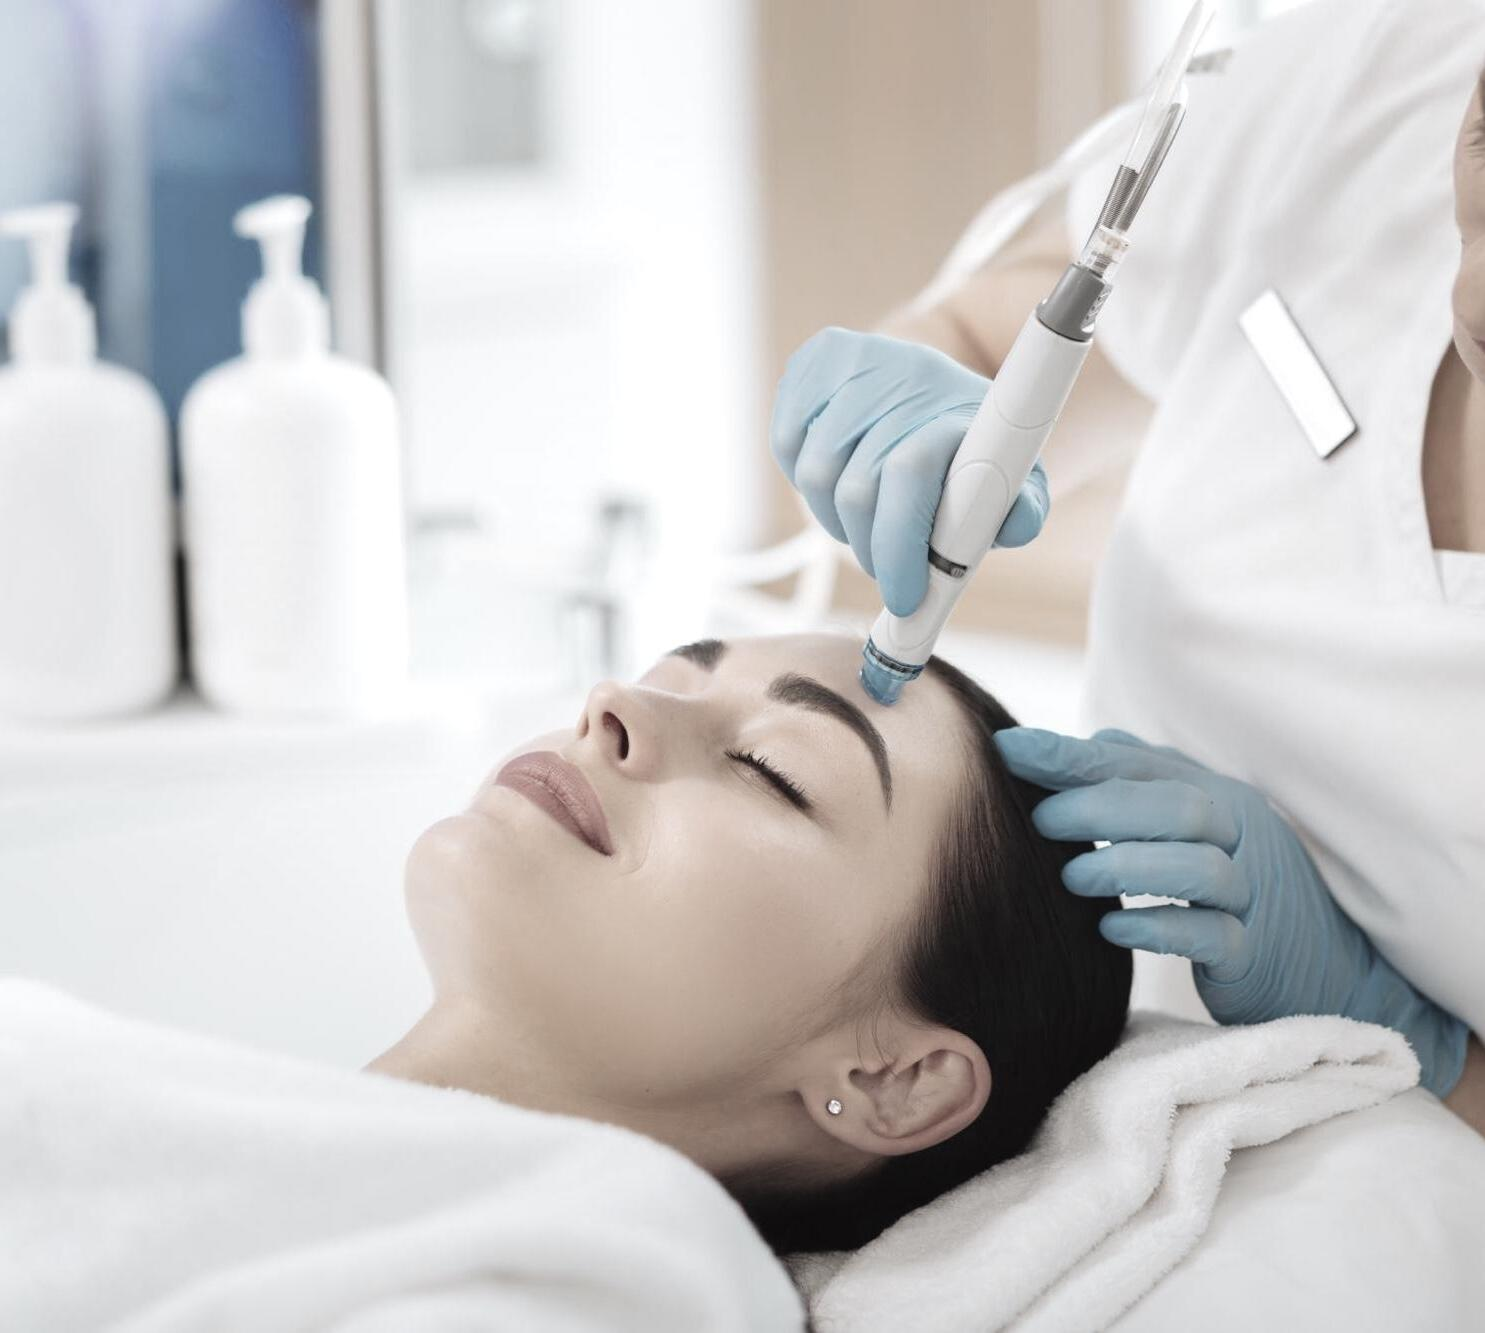
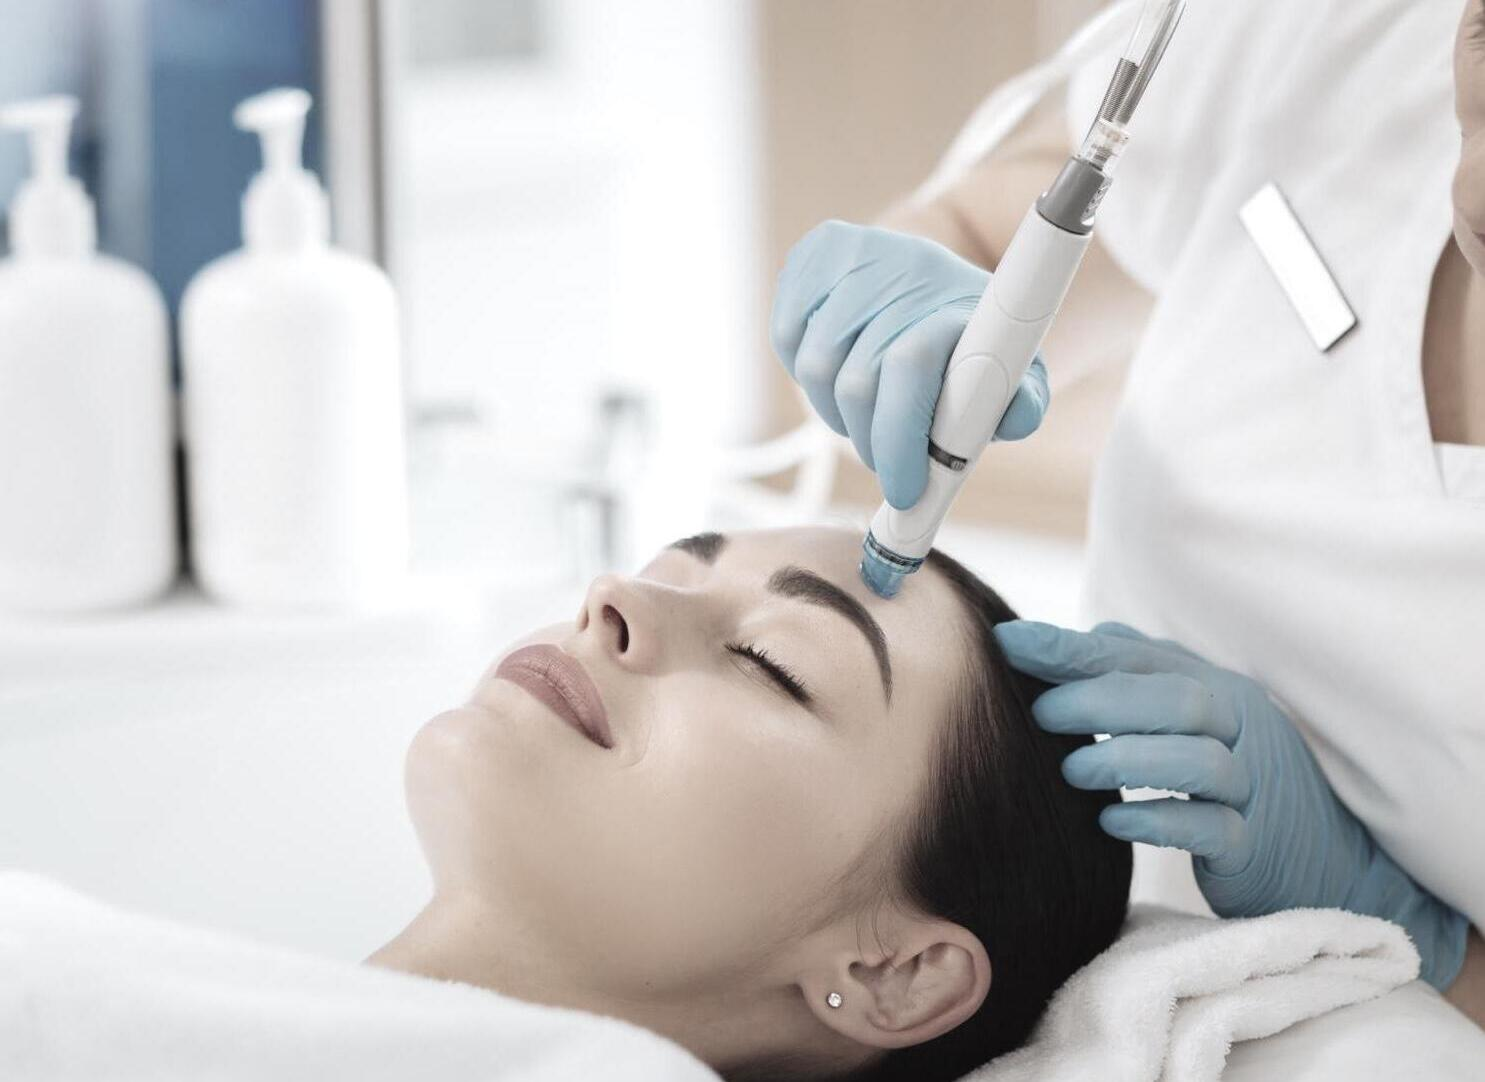
fix pic size

diff --git a/index.html b/index.html
@@ -257,7 +257,7 @@
             </header>
 
             <div class="intro-main">
-              <p>We also offer medical evaluation, physical examination, vaccine service and more services to the public at reasonable price. Come in and experience why we have the finest reputation for prompt, convenient, and most importantly, quality medical care!
+              <p>We also offer medical evaluation, physical examination, vaccine service and more services to the public at reasonable price. Our goal is to provide accessible and high-quality healthcare to everyone in need. Come in and experience why we have the finest reputation for prompt, convenient, and most importantly, quality medical care!
               </p>
             </div>
           </div>

diff --git a/styles.css b/styles.css
@@ -436,21 +436,9 @@
     position: relative;
 }
 
-.intro-with-pic #intro-skincare-img {
+.intro-with-pic .intro-img-src {
     align-self: stretch;
-    width: 240px;
-    display: block;
-}
-
-.intro-with-pic #intro-weightloss-img {
-    align-self: stretch;
-    width: 300px;
-    display: block;
-}
-
-.intro-with-pic #intro-more-img {
-    align-self: stretch;
-    width: 300px;
+    width: 330px;
     display: block;
 }
 
